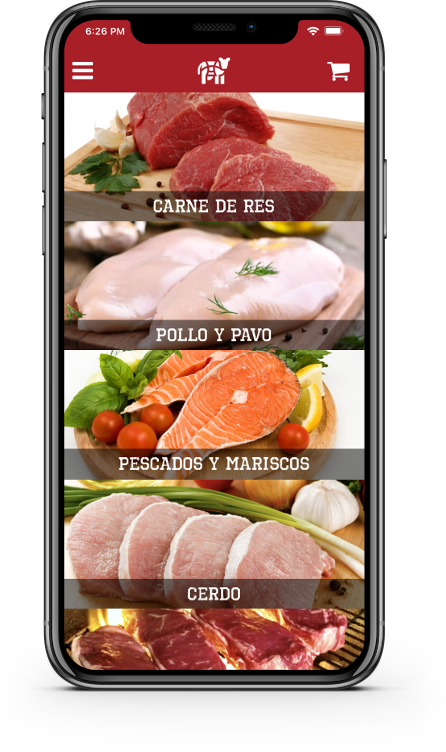
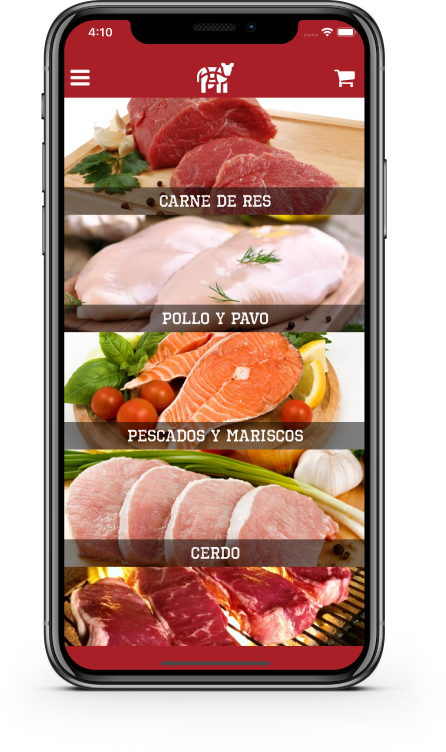
add first set images in section carousel

diff --git a/src/components/targi/bestExperience/data.js b/src/components/targi/bestExperience/data.js
@@ -1,0 +1,68 @@
+import Meat1 from '../../../images/targi/meat/meat-1.png'
+import Meat2 from '../../../images/targi/meat/meat-2.png'
+import Meat3 from '../../../images/targi/meat/meat-3.png'
+import Meat4 from '../../../images/targi/meat/meat-4.png'
+import Meat5 from '../../../images/targi/meat/meat-5.png'
+import Meat6 from '../../../images/targi/meat/meat-6.png'
+import Fish1 from '../../../images/targi/fish/fish-1.png'
+import Veg1 from '../../../images/targi/veg/veg-1.png'
+import Frame from '../../../images/targi/frame.png'
+
+export const dataCarousel = {
+  meat: [
+    {
+      id: 1,
+      urlImage: Meat1,
+      name: "Meat 1"
+    },
+    {
+      id: 2,
+      urlImage: Meat2,
+      name: "Meat 2"
+    },
+    {
+      id: 3,
+      urlImage: Meat3,
+      name: "Meat 3"
+    },
+    {
+      id: 4,
+      urlImage: Meat4,
+      name: "Meat 4"
+    },
+    {
+      id: 5,
+      urlImage: Meat5,
+      name: "Meat 5"
+    },
+    {
+      id: 6,
+      urlImage: Meat6,
+      name: "Meat 6"
+    },
+  ],
+  fish: [
+    {
+      id: 1,
+      urlImage: Fish1,
+      name: "Fish 1"
+    },
+    {
+      id: 2,
+      urlImage: Frame,
+      name: "Frame"
+    }
+  ],
+  veg: [
+    {
+      id: 1,
+      urlImage: Veg1,
+      name: "Veg 1"
+    },
+    {
+      id: 2,
+      urlImage: Frame,
+      name: "Frame"
+    }
+  ],
+}

diff --git a/src/components/targi/bestExperience/index.js b/src/components/targi/bestExperience/index.js
@@ -1,10 +1,7 @@
 import React from 'react'
 import Carousel from '../../carousel';
 
-import Meat1 from '../../../images/targi/meat/meat-1.png'
-import Fish1 from '../../../images/targi/fish/fish-1.png'
-import Veg1 from '../../../images/targi/veg/veg-1.png'
-import Frame from '../../../images/targi/frame.png'
+import { dataCarousel } from './data'
 
 import {
   BoxCase,
@@ -15,45 +12,6 @@ import {
   BackgroundItem,
   CarouselItem
 } from './styledComponents.js'
-
-const dataCarousel = {
-  meat: [
-    {
-      id: 1,
-      urlImage: Meat1,
-      name: "Meat 1"
-    },
-    {
-      id: 2,
-      urlImage: Frame,
-      name: "Frame"
-    }
-  ],
-  fish: [
-    {
-      id: 1,
-      urlImage: Fish1,
-      name: "Fish 1"
-    },
-    {
-      id: 2,
-      urlImage: Frame,
-      name: "Frame"
-    }
-  ],
-  veg: [
-    {
-      id: 1,
-      urlImage: Veg1,
-      name: "Veg 1"
-    },
-    {
-      id: 2,
-      urlImage: Frame,
-      name: "Frame"
-    }
-  ],
-}
 
 const renderImagesCarousel = (data) => {
   return data.map((carouselItem) => {
